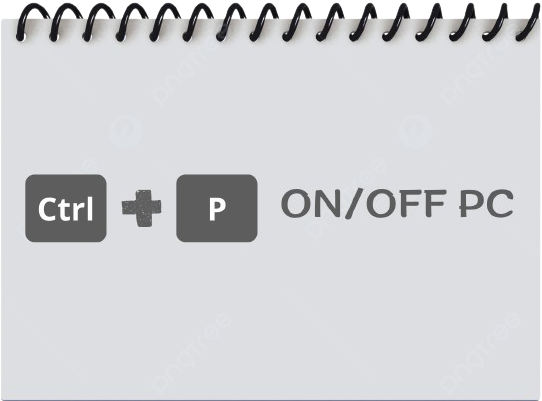
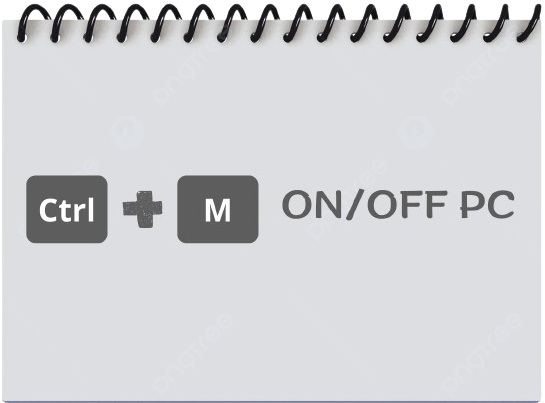
2.0

diff --git a/index.html b/index.html
@@ -82,38 +82,49 @@
             //key tec
             jQuery(document).bind("keyup keydown", function(e){
                 if(e.ctrlKey && e.keyCode == 77){
+                    let alertText = power==0? 'ligar':'desligar';
+                    alert('Hora de '+alertText+' esse computador...');
                     let hand = document.querySelector('.handpower');
                     let btn = document.querySelector('#btnClickAnim');
                     let screnn = document.querySelector('.screenLoad');
-
+                    let animationChose = power==0? 'assets/imagen/ligando.gif':'assets/imagen/desligando.gif';
                     hand.style.display = 'flex';
 
-                    setTimeout(()=>{ btn.style.animation = 'click 1.5s ease-in-out'; }, 1000);
-                    setTimeout(()=>{ btn.style.animation = ''; }, 1500);
+                    setTimeout(()=>{ 
+                        btn.style.animation = 'click 1.5s ease-in-out';
+                    }, 1000);
+                    setTimeout(()=>{ 
+                        btn.style.animation = ''; 
+                        if(power==1){
+                            screnn.style.display = 'flex';
+                        }
+                        screnn.src = animationChose;
+                    }, 1500);
 
                     setTimeout(()=>{
+                        screnn.src = 'assets/imagen/black.png';
                         hand.style.display = 'none';
-                        screnn.scr = 'assets/imagen/black.png';
-                    },3100);
-                    //power = power==0? 1:0;
-                }
-            });
+                        power = power==0? 1:0;
 
-            document.querySelector('body').addEventListener('keydown', (e)=>{
-                var KeyCode = e.keyCode || e.which;
-                if(KeyCode==13 && power==1){
+                        let YourText = document.querySelector('#YourText');
+                        let Text = document.querySelector('#ResIa');
+                        if(power==1){
+                            screnn.style.display = 'none';
+                            YourText.focus();
+                            //text inicial
+                            typeWriter(Text, "* ", time);
+                        }else{
+                            clearText(Text);
+                            clearInput(YourText);
+                            YourText.blur();
+                        }
+                    },3000);
+                }
+                else if(e.keyCode==13 && power==1){
                     let btn = document.querySelector('.btnEnviar');
                     btn.click();
                 }
             });
-
-            window.onload = ()=>{
-                let YourText = document.querySelector('#YourText');
-                YourText.focus();
-                
-                let Text = document.querySelector('#ResIa');
-                typeWriter(Text, "> ", time);
-            }
 
             document.querySelector('#YourText').oninput = ()=>{
                 let YourText = document.querySelector('#YourText');
@@ -121,36 +132,39 @@
                 let Text = document.querySelector('#ResIa');
                 let space = cond[0] == 0? '':'<br><br>_____________<br><br>';
 
-                Text.innerHTML = textSave+space+"> " + vl;
+                Text.innerHTML = textSave+space+"* " + vl;
             };
 
-            document.querySelector('.btnEnviar').addEventListener('click', ()=>{
+            document.querySelector('.btnEnviar').addEventListener('click', () => {
                 let anim = document.querySelector('#Doll');
                 anim.src = 'assets/DollGifs/DollTallk.gif';
                 $('#YourText').attr('disabled', 'disabled');
-
-                cond[0] = cond[0] == 0? 1:cond[0];
                 let YourText = document.querySelector('#YourText');
                 let vl = YourText.value;
+                alert(vl);
                 let Text = document.querySelector('#ResIa');
+                cond[0] = 1;
+                alert(cond[0]);
 
-                textSave = Text.innerHTML+'<br><br>_____________<br><br>BOT_Jotaro > '+vl;
-                
-                clearInput(YourText);
-                Text.innerHTML += '<br><br>_____________<br><br>BOT_Jotaro > ';
+                /*textSave += Text.innerHTML+'<br><br>_____________<br><br>BOT_Jotaro > ' + vl; // Atualiza o textSave
+                clearText(Text);
+                Text.innerHTML = textSave;
                 typeWriter(Text, vl, time);
 
-                let textArray = vl.split('');
-                setTimeout(()=>{
+                clearInput(YourText);
+
+                setTimeout(() => {
                     anim.src = 'assets/DollGifs/DollStatic.gif';
                     $('#YourText').removeAttr('disabled');
                     YourText.focus();
-                },(time*textArray.length ));
+                }, (time * vl.length));*/
             });
 
             document.querySelector('body').addEventListener('click', ()=>{
                 let YourText = document.querySelector('#YourText');
-                YourText.focus();
+                if(power==1){
+                    YourText.focus();
+                }
             });
     </script>
 </html>
